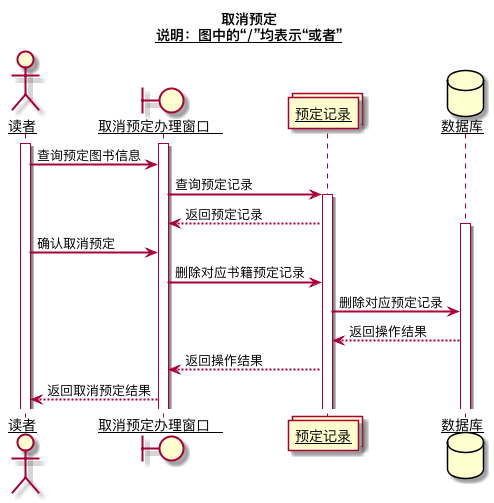
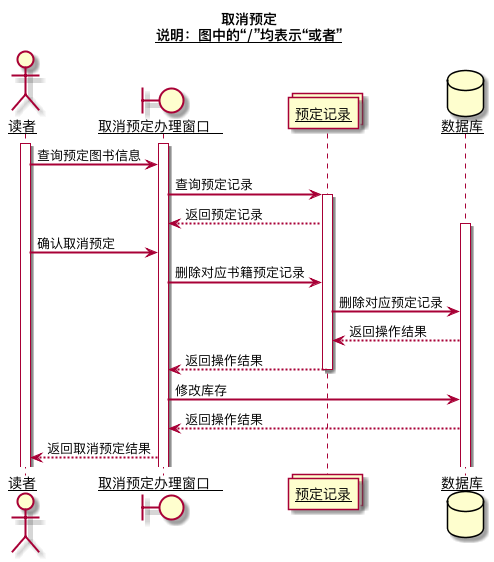
test4

diff --git a/test4/README.md b/test4/README.md
@@ -88,13 +88,14 @@ U ->A:输入读者信息
 A ->B:查询读者信息
 activate B
 B -->A:返回读者信息
-U ->A:判断是否符合借阅要求
+U ->A:确认借书
 A ->B:修改图书库存
 B ->C:生成借书记录
 activate C
 C -->B:增加借阅信息
 B -->A:返回操作结果
 A -->U:返回借出结果
+
 @enduml
 ```
 #### 3.2借出图书顺序图
@@ -102,7 +103,7 @@ A -->U:返回借出结果
 
 #### 3.3借出图书顺序图说明
 1.参与者：actor：图书管理员/超级管理员 boundary:借书办理窗口 database:数据库 collections:借书记录<br>
-2.消息 查阅将借阅的读书内容 -> 检查图书是否满足借阅条件 -> 输入读者信息 -> 查询读者信息 -> 返回读者信息 -> 判断是否满足借阅要求 -> 修改图书库存 -> 生成借书记录 -> 增加借阅信息 -> 返回操作结果 -> 返回借出结果<br>
+2.消息 查阅将借阅的读书内容 -> 检查图书是否满足借阅条件 -> 输入读者信息 -> 查询读者信息 -> 返回读者信息 -> 确认借书 -> 修改图书库存 -> 生成借书记录 -> 增加借阅信息 -> 返回操作结果 -> 返回借出结果<br>
 
 ### 4.归还图书
 #### 4.1归还图书的PlantUML代码
@@ -142,10 +143,10 @@ A -->U:返回归还结果
 
 @enduml
 ```
-#### 4.2借出图书顺序图
+#### 4.2归还图书顺序图
 ![sequence4_flow](sequence4_flow.jpg)
 
-#### 4.3借出图书顺序图说明
+#### 4.3归还图书顺序图说明
 1.参与者：actor：图书管理员/超级管理员 boundary:还书办理窗口 database:数据库 collections:借书记录<br>
 2.消息 检查书籍完整性(如果书籍有破损，则进入登记赔偿) -> 输入读者信息 -> 查询借书记录 -> 返回借书记录 -> 查找对应借书记录，检查是否逾期 -> 确认还书 -> 修改图书库存 ->返回操作结果 -> 修改借书记录 -> 删除对应借书记录 -> 返回借出结果 -> 返回操作结果 -> 返回归还结果<br>
 
@@ -171,6 +172,8 @@ A ->C:查询该图书信息
 activate C
 C -->A:返回图书信息
 U ->A:确认预定
+A ->C:修改库存
+C -->A:返回操作结果
 A ->B:添加预定记录
 activate B
 B ->C:添加对应预定记录
@@ -185,7 +188,7 @@ A -->U:返回预定结果
 
 #### 5.3预定图书顺序图说明
 1.参与者：actor：读者 boundary:预定图书办理窗口 collections:预定记录database:数据库<br>
-2.消息 输入图书信息 -> 查询该图书信息 -> 返回图书信息 -> 确认预定 -> 添加预定记录 -> 添加对应预定记录 -> 返回操作结果 -> 返回借出结果 -> 返回预定结果<br>
+2.消息 输入图书信息 -> 查询该图书信息 -> 返回图书信息 -> 确认预定 -> 修改库存 -> 返回操作结果 -> 添加预定记录 -> 添加对应预定记录 -> 返回操作结果 -> 返回借出结果 -> 返回预定结果<br>
 
 ### 6.取消预定
 #### 6.1预定图书的PlantUML代码
@@ -214,7 +217,11 @@ A ->B:删除对应书籍预定记录
 B ->C:删除对应预定记录
 C -->B:返回操作结果
 B -->A:返回操作结果
+deactivate B
+A ->C:修改库存
+C -->A:返回操作结果
 A -->U:返回取消预定结果
+
 @enduml
 ```
 #### 6.2取消预定顺序图
@@ -222,7 +229,7 @@ A -->U:返回取消预定结果
 
 #### 6.3预定图书顺序图说明
 1.参与者：actor：读者 boundary:取消预定办理窗口 collections:预定记录database:数据库<br>
-2.消息 查询预定图书信息 -> 查询预定记录 -> 返回预定记录 -> 删除对应书籍预定记录 -> 删除对应预定记录 -> 返回操作结果 -> 返回借出结果 -> 返回取消预定结果<br>
+2.消息 查询预定图书信息 -> 查询预定记录 -> 返回预定记录 -> 删除对应书籍预定记录 -> 删除对应预定记录 -> 返回操作结果 -> 返回借出结果 -> 修改库存-> 返回操作结果 -> 返回取消预定结果<br>
 
 ### 7.登记赔偿
 #### 7.1登记赔偿的PlantUML代码
@@ -372,7 +379,7 @@ B ->C:获取借书记录
 activate C
 C -->B:返回操作结果
 B -->A:返回查询结果
-A -->U:返回查询结果
+A -->U:返回借阅信息
 
 @enduml
 
@@ -382,5 +389,5 @@ A -->U:返回查询结果
 
 #### 11.3查询借阅情况顺序图说明
 1.参与者：actor：读者 boundary:查询借阅窗口 database:数据库<br>
-2.消息 查询借阅信息 -> 查询借书记录 -> 获取借书记录-> 返回操作结果 -> 返回查询结果 -> 返回查询结果<br>
+2.消息 查询借阅信息 -> 查询借书记录 -> 获取借书记录-> 返回操作结果 -> 返回查询结果 -> 返回借阅信息<br>
 

diff --git a/test4/sequence6.md b/test4/sequence6.md
@@ -22,6 +22,9 @@ A ->B:删除对应书籍预定记录
 B ->C:删除对应预定记录
 C -->B:返回操作结果
 B -->A:返回操作结果
+deactivate B
+A ->C:修改库存
+C -->A:返回操作结果
 A -->U:返回取消预定结果
 
 @enduml

diff --git a/test4/sequence3.md b/test4/sequence3.md
@@ -18,7 +18,7 @@ U ->A:输入读者信息
 A ->B:查询读者信息
 activate B
 B -->A:返回读者信息
-U ->A:判断是否符合借阅要求
+U ->A:确认借书
 A ->B:修改图书库存
 B ->C:生成借书记录
 activate C

diff --git a/test4/sequence5.md b/test4/sequence5.md
@@ -17,6 +17,8 @@ A ->C:查询该图书信息
 activate C
 C -->A:返回图书信息
 U ->A:确认预定
+A ->C:修改库存
+C -->A:返回操作结果
 A ->B:添加预定记录
 activate B
 B ->C:添加对应预定记录

diff --git a/test4/sequence11.md b/test4/sequence11.md
@@ -19,6 +19,6 @@ B ->C:获取借书记录
 activate C
 C -->B:返回操作结果
 B -->A:返回查询结果
-A -->U:返回查询结果
+A -->U:返回借阅信息
 
 @enduml
